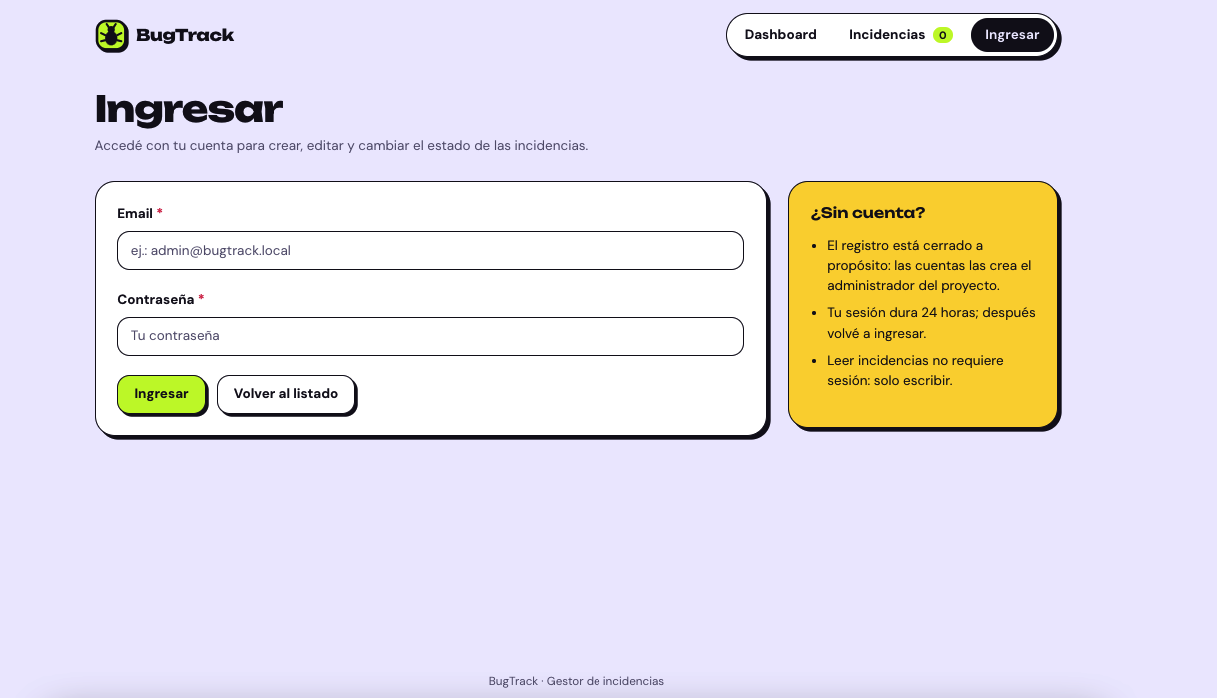
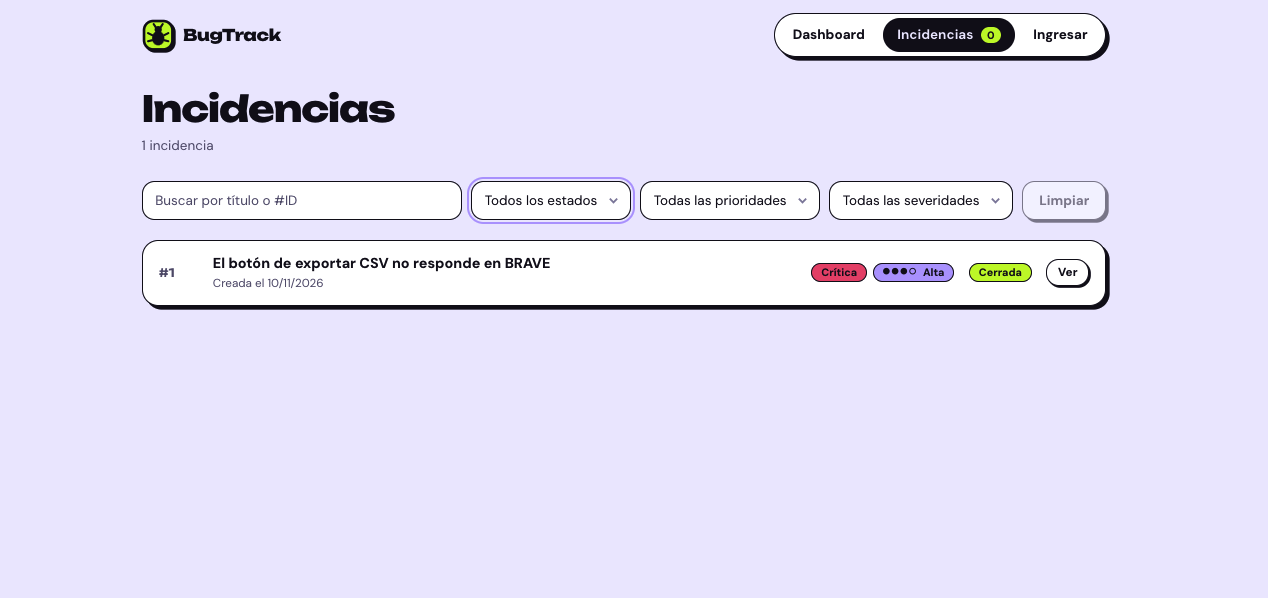
docs: include drawer screenshot in README gallery

diff --git a/README.md b/README.md
@@ -53,9 +53,9 @@ rápida sobre una API REST limpia.
 |---|---|
 | ![Dashboard con contadores y reporte por severidad](docs/screenshots/dashboard.png) | ![Lista de incidencias con buscador y filtros por estado, prioridad y severidad](docs/screenshots/lista-filtros.png) |
 
-| Login |
-|---|
-| ![Pantalla de login con aviso de registro cerrado](docs/screenshots/login.png) |
+| Login | Detalle (drawer) |
+|---|---|
+| ![Pantalla de login con aviso de registro cerrado](docs/screenshots/login.png) | ![Detalle de una incidencia abierto en el panel lateral](docs/screenshots/drawer-detalle.png) |
 
 ## Stack
 
